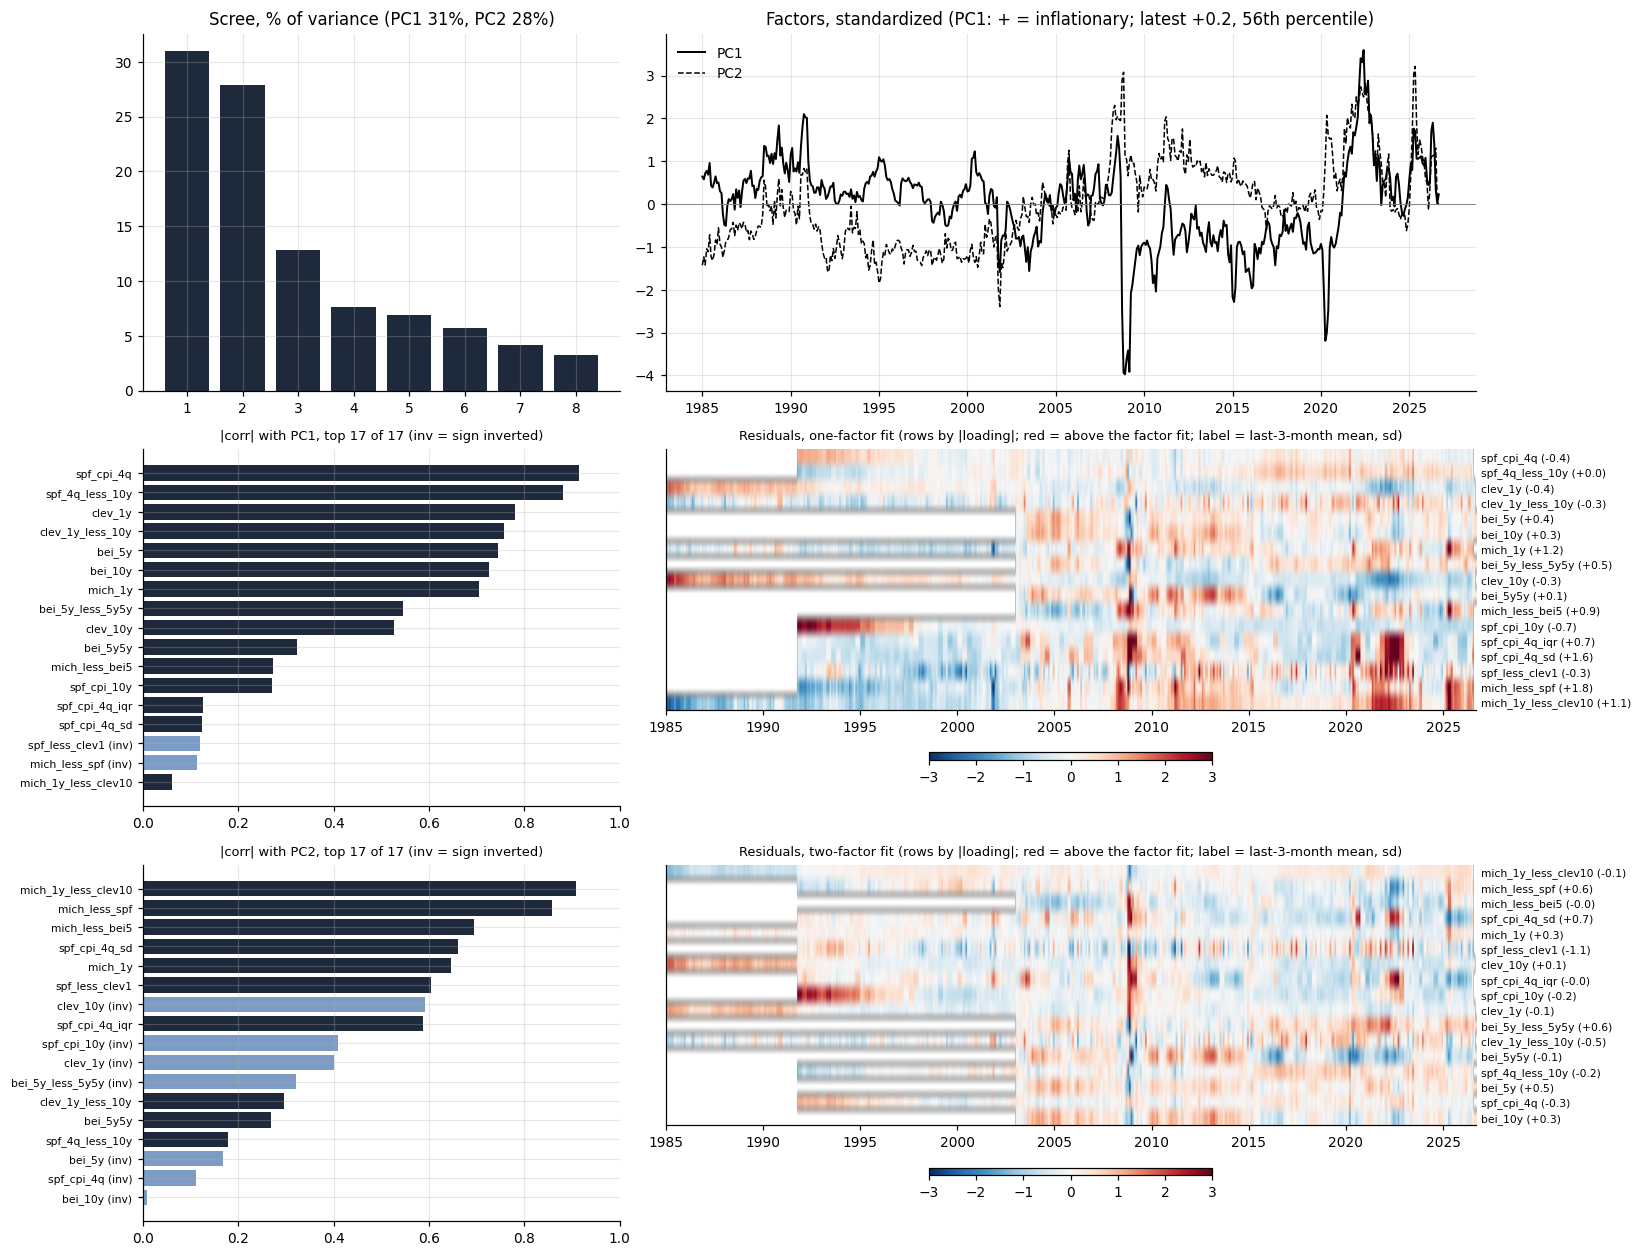
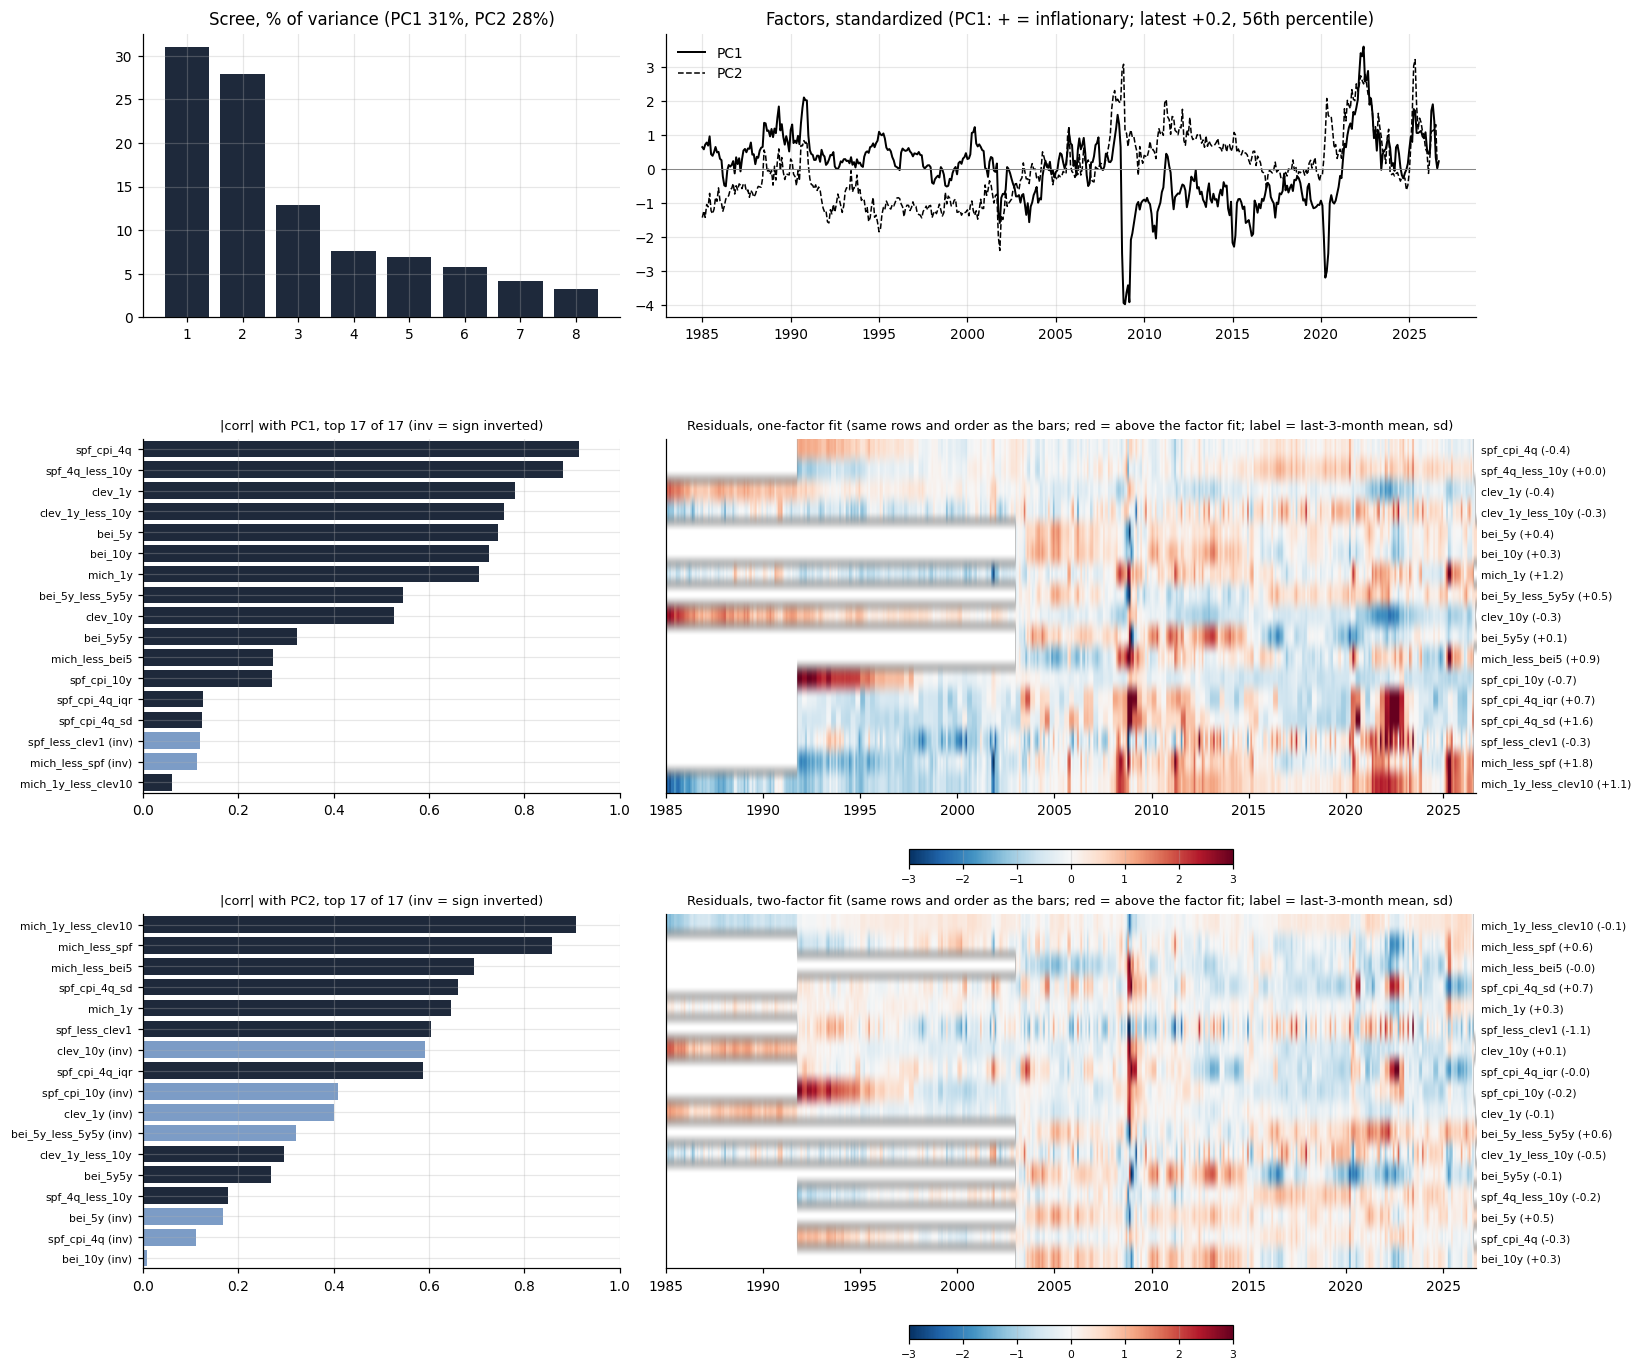
US inflation signals: bar chart and residual heatmap share rows, order and row height (top 30 by |correlation|); colorbar as inset

diff --git a/run.py b/run.py
@@ -237,23 +237,23 @@ def block_eda(name, df, ref, flip=False, title=""):
     f1 = sgn * sc["PC1"]; BPC[name] = f1; f1z = (f1 - f1.mean()) / f1.std(); l1 = Zf.corrwith(f1z)
     f2z = (sc["PC2"] - sc["PC2"].mean()) / sc["PC2"].std(); l2 = Zf.corrwith(f2z); s2 = np.sign(l2.loc[l2.abs().idxmax()]); f2z, l2 = s2 * f2z, s2 * l2   # PC2 sign: largest |correlation| positive
     res1 = (Zf - np.outer(f1z, l1)).where(Zb.notna()); res2 = (res1 - np.outer(f2z, l2)).where(Zb.notna())
-    fig, ax = plt.subplots(3, 2, figsize=(15, 11.5), gridspec_kw={"width_ratios": [1, 1.7]})
+    fig, ax = plt.subplots(3, 2, figsize=(15, 12.5), gridspec_kw={"width_ratios": [1, 1.7], "height_ratios": [0.8, 1, 1]})
     ax[0, 0].bar(range(1, len(ex) + 1), 100 * ex, color="#1e293b"); ax[0, 0].set_title(f"Scree, % of variance (PC1 {100*ex[0]:.0f}%, PC2 {100*ex[1]:.0f}%)"); ax[0, 0].set_xticks(range(1, len(ex) + 1))
     ax[0, 1].plot(f1z.index, f1z, color="k", lw=1.3, label="PC1"); ax[0, 1].plot(f2z.index, f2z, color="k", lw=1, ls="--", label="PC2"); ax[0, 1].axhline(0, color="grey", lw=.6)
     ax[0, 1].set_title(f"Factors, standardized (PC1: + = inflationary; latest {f1z.iloc[-1]:+.1f}, {ordinal(pct_rank(f1))} percentile)"); ax[0, 1].legend(frameon=False)
+    KROWS = 30
     def corr_panel(a, l, lab):
-        k = min(20, len(l)); show = l.reindex(l.abs().sort_values().index[-k:])
-        a.barh(range(k), show.abs().values, color=np.where(show.values > 0, "#1e293b", "#7c9cc6")); a.set_yticks(range(k)); a.set_yticklabels([f"{vname(c)}{' (inv)' if v < 0 else ''}" for c, v in show.items()], fontsize=7)
-        a.set_xlim(0, 1); a.set_title(f"|corr| with {lab}, top {k} of {len(l)} (inv = sign inverted)", fontsize=8.5)
-    def heat(a, res, l, lab):
-        order = l.abs().sort_values(ascending=False).index          # largest |correlation| at the top, matching the bar chart
-        im = a.imshow(res[order].T.values, aspect="auto", cmap="RdBu_r", vmin=-3, vmax=3, extent=[mdates.date2num(res.index[0]), mdates.date2num(res.index[-1]), len(order), 0]); a.xaxis_date(); a.grid(False)
-        last = res[order].iloc[-3:].mean()                       # label every variable when readable, otherwise only those with a large end-of-sample residual
-        lab_rows = list(range(len(order))) if len(order) <= 45 else [i for i, c in enumerate(order) if abs(last[c]) > 1.0]
-        a.yaxis.tick_right(); a.set_yticks([i + 0.5 for i in lab_rows]); a.set_yticklabels([f"{vname(order[i])} ({last[order[i]]:+.1f})" for i in lab_rows], fontsize=5.5 if len(lab_rows) > 25 else 7); a.tick_params(axis="y", length=0)
-        a.set_title(f"Residuals, {lab} fit (rows by |loading|; red = above the factor fit; label = last-3-month mean, sd)", fontsize=8.5)
-        fig.colorbar(im, ax=a, orientation="horizontal", shrink=.35, pad=.12, aspect=40)
-    corr_panel(ax[1, 0], l1, "PC1"); heat(ax[1, 1], res1, l1, "one-factor"); corr_panel(ax[2, 0], l2, "PC2"); heat(ax[2, 1], res2, l2, "two-factor")
+        sel = l.abs().sort_values(ascending=False).index[:KROWS]; show = l[sel]; k = len(sel)
+        a.barh(np.arange(k) + 0.5, show.abs().values, height=0.8, color=np.where(show.values > 0, "#1e293b", "#7c9cc6")); a.set_ylim(k, 0)
+        a.set_yticks(np.arange(k) + 0.5); a.set_yticklabels([f"{vname(c)}{' (inv)' if v < 0 else ''}" for c, v in show.items()], fontsize=6.5 if k > 20 else 7)
+        a.set_xlim(0, 1); a.set_title(f"|corr| with {lab}, top {k} of {len(l)} (inv = sign inverted)", fontsize=8.5); return sel
+    def heat(a, res, sel, lab):
+        last = res[sel].iloc[-3:].mean(); k = len(sel)
+        im = a.imshow(res[sel].T.values, aspect="auto", cmap="RdBu_r", vmin=-3, vmax=3, extent=[mdates.date2num(res.index[0]), mdates.date2num(res.index[-1]), k, 0]); a.xaxis_date(); a.grid(False); a.set_ylim(k, 0)
+        a.yaxis.tick_right(); a.set_yticks(np.arange(k) + 0.5); a.set_yticklabels([f"{vname(c)} ({last[c]:+.1f})" for c in sel], fontsize=6.5 if k > 20 else 7); a.tick_params(axis="y", length=0)
+        a.set_title(f"Residuals, {lab} fit (same rows and order as the bars; red = above the factor fit; label = last-3-month mean, sd)", fontsize=8.5)
+        cax = a.inset_axes([0.3, -0.2, 0.4, 0.04]); fig.colorbar(im, cax=cax, orientation="horizontal"); cax.tick_params(labelsize=7)
+    heat(ax[1, 1], res1, corr_panel(ax[1, 0], l1, "PC1"), "one-factor"); heat(ax[2, 1], res2, corr_panel(ax[2, 0], l2, "PC2"), "two-factor")
     plt.tight_layout(); R.fig(fig, f"block_{name}", title)
     DESC[(name, 1)] = describe_factor(name, l1); DESC[(name, 2)] = describe_factor(name, l2)
     R.p(f"PC1 is {DESC[(name, 1)]}. {READING.get((name, 1), '')}")
